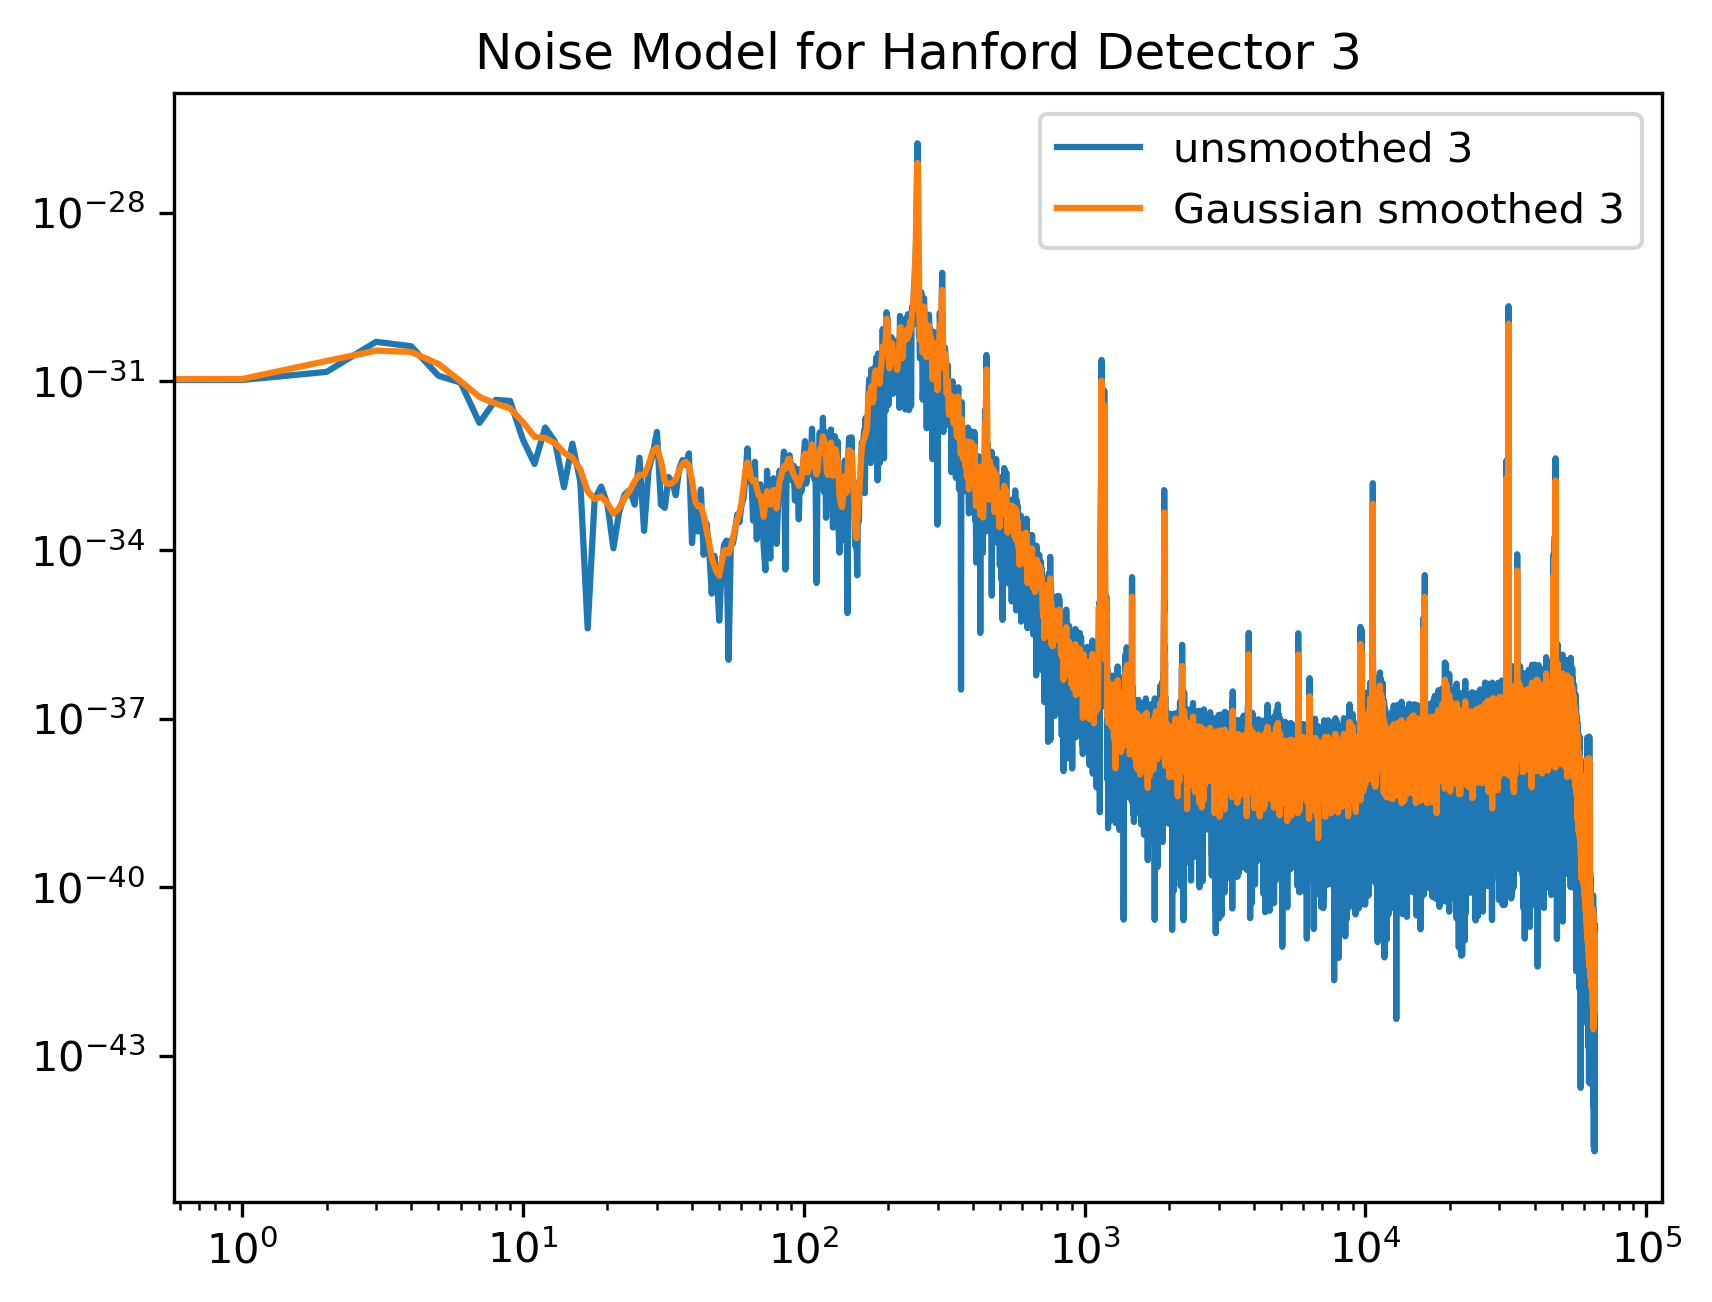
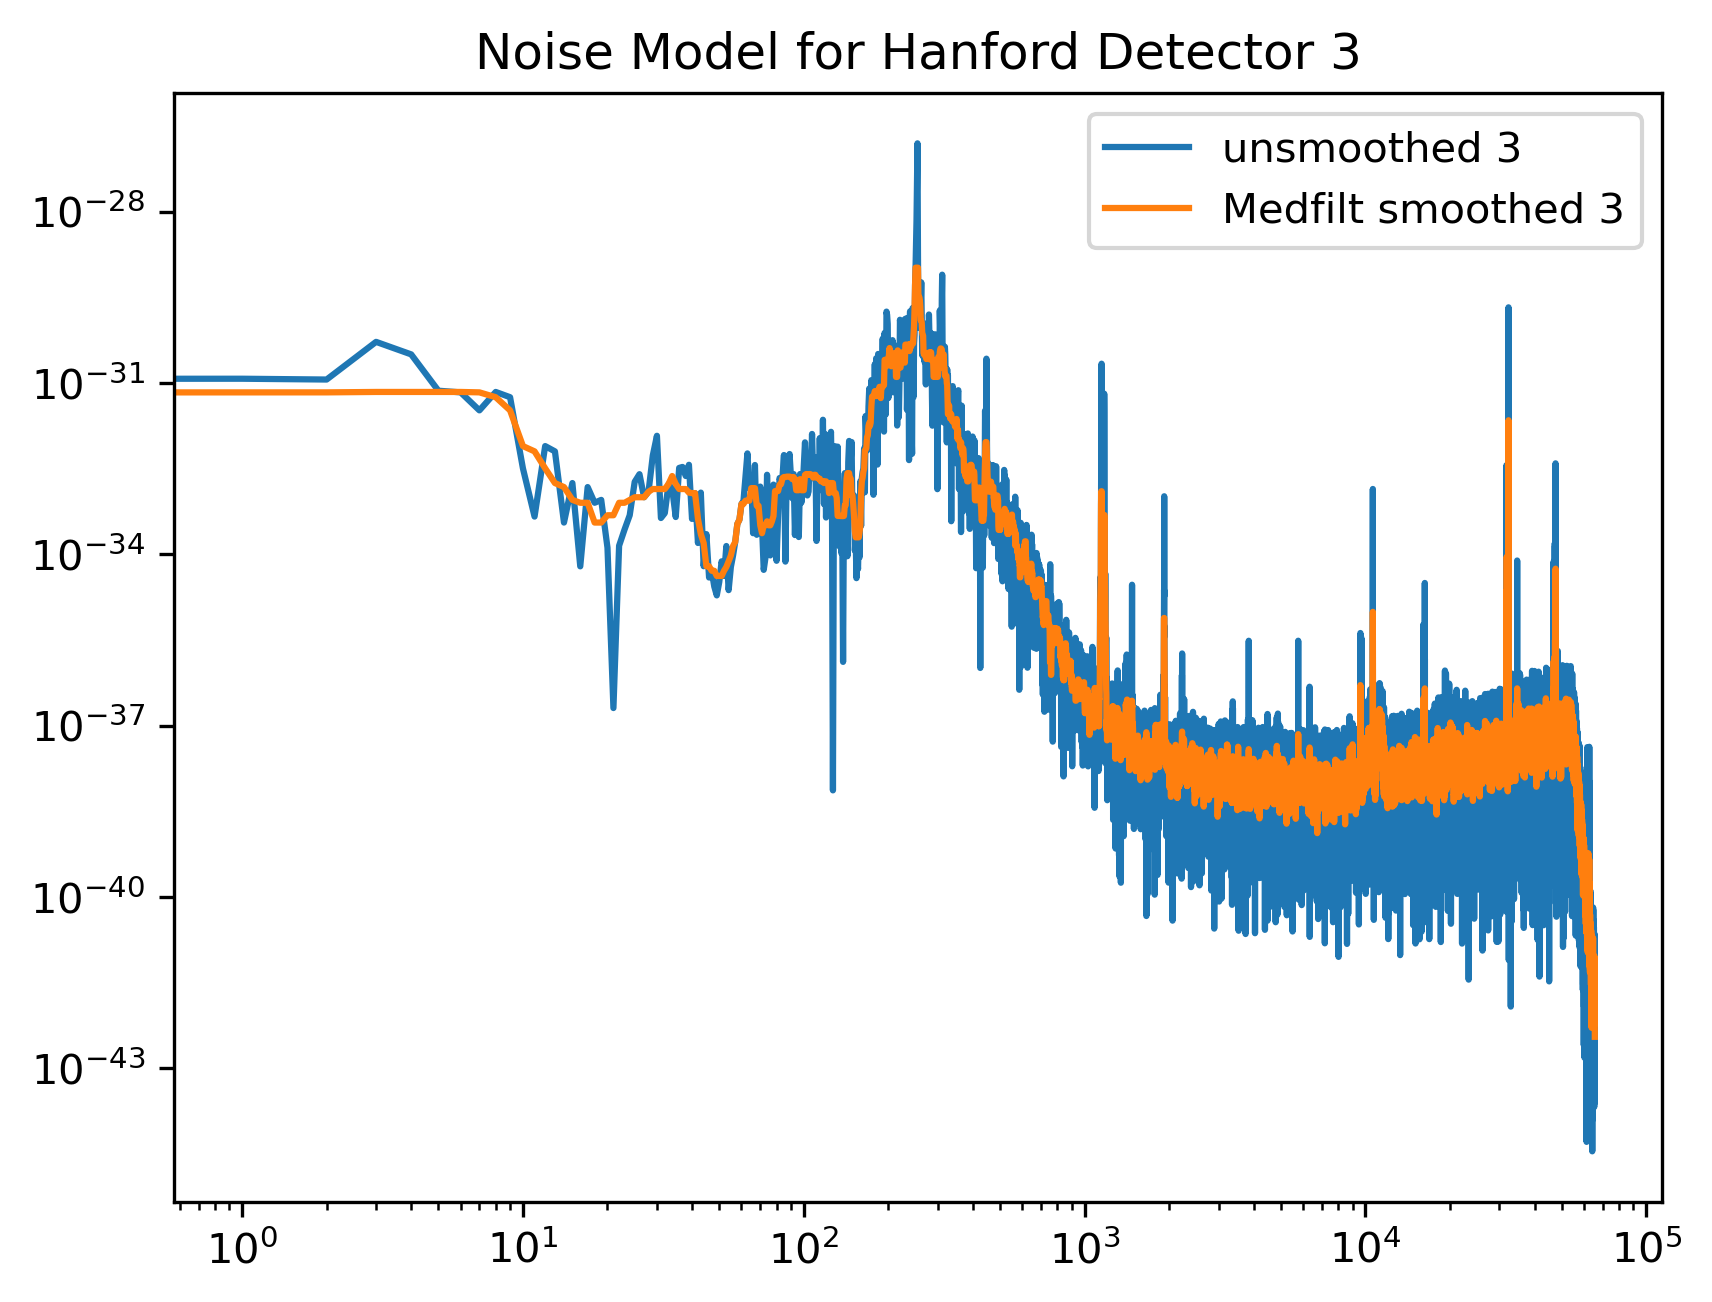
0411

diff --git a/problem_sets/ps6/ps6_1.py b/problem_sets/ps6/ps6_1.py
@@ -59,38 +59,24 @@ for i in range(4):
 #Nft_L = gaussian_filter1d(Nftl, 1)
     Nft_L[i] = scipy.signal.medfilt(Nftl[i], 11)
 
-#Nft_L = gaussian_filter1d(Nftl, 1)
-# for i in range(4):
-#     plt.loglog(Nft_1[i], label = f'unsmoothed {i + 1}')
-#     plt.loglog(Nft_H[i], label = f'Gaussian smoothed {i + 1}')
-#     plt.legend()
-#     plt.title(f'Noise Model for Hanford Detector {i + 1}')
-#     plt.savefig(f'Noise_Model_H{i+1}.png',dpi = 300, bbox_inches = 'tight')
-#     plt.show()
-#
-#     plt.loglog(Nft_2[i], label = 'unsmoothed')
-#     plt.loglog(Nft_L[i], label = 'Gaussian smoothed')
-#     plt.legend()
-#     plt.title(f'Noise Model for Livingston Detector {i + 1}')
-#     plt.savefig(f'Noise_Model_L{i+1}.png',dpi = 300, bbox_inches = 'tight')
-#     plt.show()
-#whi
 
-# whitening the function
-def whiten(strain, interp_psd, dt):
-    Nt = len(strain)
-    freqs = np.fft.rfftfreq(Nt, dt)
-    freqs1 = np.linspace(0,2048.,Nt/2+1)
+for i in range(4):
+    plt.loglog(Nft_1[i], label = f'unsmoothed {i + 1}')
+    plt.loglog(Nft_H[i], label = f'Medfilt smoothed {i + 1}')
+    plt.legend()
+    plt.title(f'Noise Model for Hanford Detector {i + 1}')
+    plt.savefig(f'Noise_Model_H{i+1}.png',dpi = 300, bbox_inches = 'tight')
+    plt.show()
 
-    # whitening: transform to freq domain, divide by asd, then transform back,
-    # taking care to get normalization right.
-    hf = np.fft.rfft(strain)
-    norm = 1./np.sqrt(1./(dt*2))
-    white_hf = hf / np.sqrt(interp_psd(freqs)) * norm
-    white_ht = np.fft.irfft(white_hf, n=Nt)
-    return white_ht
+    plt.loglog(Nft_2[i], label = 'unsmoothed')
+    plt.loglog(Nft_L[i], label = 'Medfilt smoothed')
+    plt.legend()
+    plt.title(f'Noise Model for Livingston Detector {i + 1}')
+    plt.savefig(f'Noise_Model_L{i+1}.png',dpi = 300, bbox_inches = 'tight')
+    plt.show()
 
-#sft_white = whiten(strain_ft, scipy.integrate.interp1d() )
+
+
 sft_white = strain_ft /np.sqrt(Nft_H)
 sft_white_l = strain_ftl/np.sqrt(Nft_L)
 th_white_ft = np.fft.rfft(th*win)/np.sqrt(Nft_H)
@@ -137,19 +123,19 @@ for i in range(4):
     print(f'#{i + 1} GW event at Hanford has Noise of: {Noise[i]:.3f} and SNR = {SNR[i]:.3f}')
     print(f'#{i + 1} GW event at Livingston has Noise of: {Noise_l[i]:.3f} and SNR = {SNR_l[i]:.3f}')
 
-for i in range(4):
-    plt.plot(np.fft.fftshift(xcorr2[i]),color = 'brown')
-    #plt.xlim([62000,67000])
-    plt.title(f'Match Filtering of #{i+1} GW event in Hanford \n with Noise = {Noise[i]:.3f} and SNR = {SNR[i]:.3f}.')
-    plt.savefig(f'GW{i + 1}_H.png', dpi=300, bbox_inches='tight')
-    plt.show()
-
-for i in range(4):
-    plt.plot(np.fft.fftshift(xcorrl[i]),color = 'green')
-    #plt.xlim([62000,67000])
-    plt.title(f'Match Filtering of #{i+1} GW event in Livingston \n with Noise = {Noise_l[i]:.3f} and SNR = {SNR_l[i]:.3f}.')
-    plt.savefig(f'GW{i + 1}_L.png', dpi=300, bbox_inches='tight')
-    plt.show()
+# for i in range(4):
+#     plt.plot(np.fft.fftshift(xcorr2[i]),color = 'brown')
+#     #plt.xlim([62000,67000])
+#     plt.title(f'Match Filtering of #{i+1} GW event in Hanford \n with Noise = {Noise[i]:.3f} and SNR = {SNR[i]:.3f}.')
+#     plt.savefig(f'GW{i + 1}_H.png', dpi=300, bbox_inches='tight')
+#     plt.show()
+#
+# for i in range(4):
+#     plt.plot(np.fft.fftshift(xcorrl[i]),color = 'green')
+#     #plt.xlim([62000,67000])
+#     plt.title(f'Match Filtering of #{i+1} GW event in Livingston \n with Noise = {Noise_l[i]:.3f} and SNR = {SNR_l[i]:.3f}.')
+#     plt.savefig(f'GW{i + 1}_L.png', dpi=300, bbox_inches='tight')
+#     plt.show()
 
 
 sigma_h = np.sqrt(np.abs(np.fft.irfft(th_white_ft*np.conj(th_white_ft))))
@@ -168,17 +154,21 @@ for i in range(4):
     print(f'#{i + 1} Noise Model at Hanford has Noise of: {Noise_ah[i]:.3f} and SNR = {SNR_ah[i]:.3f}')
     print(f'#{i + 1} Noise Model at Livingston has Noise of: {Noise_al[i]:.3f} and SNR = {SNR_al[i]:.3f}')
 
-for i in range(4):
-    plt.plot(np.fft.fftshift(sigma_h[1]))
-    plt.title(f'Analytic Noise Model for Hanford #{i + 1}')
-    plt.show()
-
-    plt.plot(np.fft.fftshift(sigma_l[1]))
-    plt.title(f'Analytic Noise Model for Livingston #{i + 1}')
-    plt.show()
+# for i in range(4):
+#     plt.plot(np.fft.fftshift(sigma_h[1]))
+#     plt.title(f'Analytic Noise Model for Hanford #{i + 1}')
+#     plt.show()
+#
+#     plt.plot(np.fft.fftshift(sigma_l[1]))
+#     plt.title(f'Analytic Noise Model for Livingston #{i + 1}')
+#     plt.show()
 
 
 
 # two LIGO detectors are 3000 km apart
-print(utc_H)
-print(utc_L)
+
+max = np.argmax(np.abs(xcorr2), axis = 1)
+max1 = np.argmax(np.abs(xcorrl), axis = 1)
+print(max1*dt_L + 16.)
+print(max*dt_H + 16.)
+print(f'The difference between the time of arrivals are: {max*dt_L - max1*dt_L}.')
